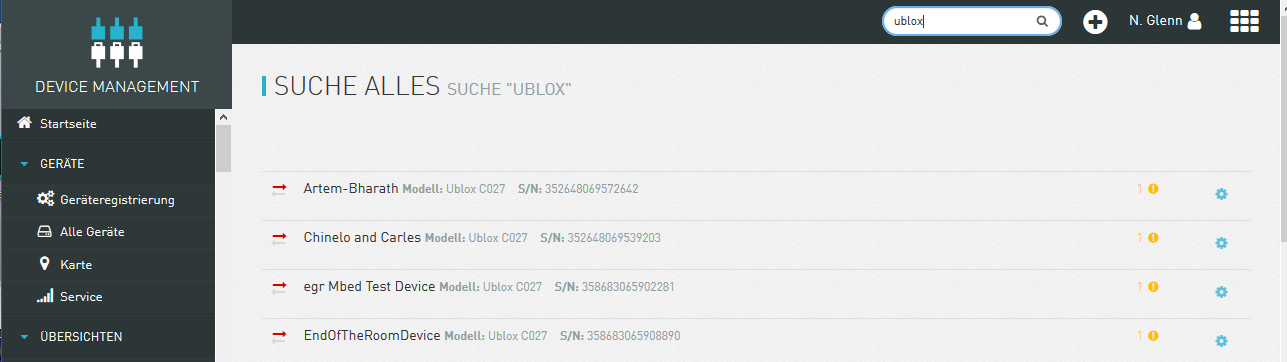
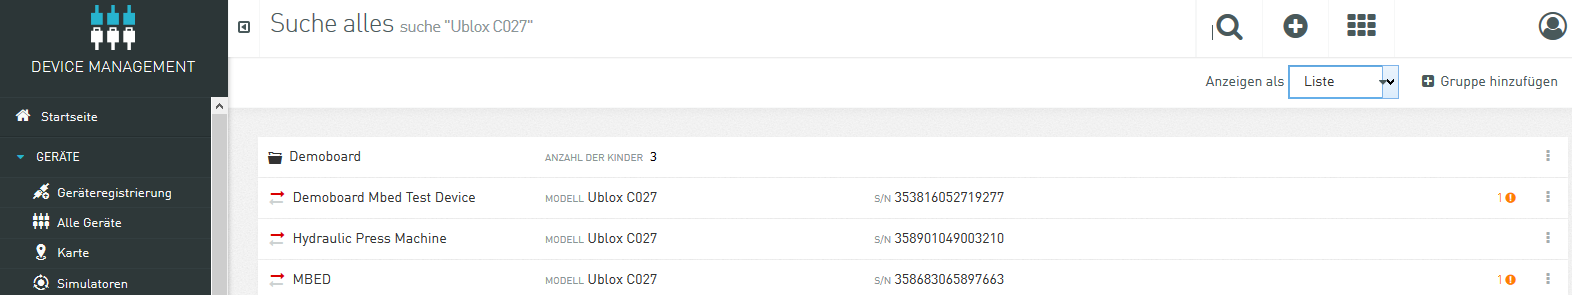
added 12 more up-to-date German screenshots

diff --git a/src/documents/guides/benutzerhandbuch/device-management-deutsch.html.md b/src/documents/guides/benutzerhandbuch/device-management-deutsch.html.md
@@ -19,7 +19,7 @@ Die Device-Management-Anwendung zeigt Ihnen Ihre angeschlossenen Geräte an und 
 * Verwalten von [Software und Firmware](#software-repo) auf Geräten
 * Verwalten der [Zugangsdaten](#credentials) von Geräten
 * [Simulation](#simulators) von Geräten
-* Nutzung von [Cloud Remote Access](#cloud_remote_access) für Fernzugriff auf Bedienkonsolen und andere Geräte
+* Nutzung von [Cloud Remote Access](#cloud_remote_access) für Fernzugriff auf Geräte 
 
 Die Device-Management-Anwendung sieht so aus:
 
@@ -85,15 +85,15 @@ In jedem Fall sehen Sie eine Liste der Geräte, wie im folgenden Beispiel gezeig
 
 Das Löschen eines Geräts bedeutet, das Gerät aus der Cumulocity-Datenbank zu entfernen, einschließlich aller damit generierten Daten. Alternativ zum Löschen eines Gerätes können Sie auch alle ausgeschalteten Geräte in eine Gruppe organisieren. Dadurch wird sichergestellt, dass alle alten Berichte korrekt bleiben. Um zu verhindern, dass Alarme für die ausgeschalteten Geräte eingehen, deaktivieren Sie die [Verbindungsüberwachung](#connection-monitoring). Beim Löschen eines Geräts werden die Daten seiner Kindgeräte nicht gelöscht.
 
-<img src="/guides/users-guide/devicelistde.png" alt="Device List" style="max-width: 100%">
+<img src="/guides/benutzerhandbuch/devicelistde.png" alt="Geräteliste" style="max-width: 100%">
 
 Falls eine Liste mehr als 1.000 Einträge enthält, werden nur die ersten 1.000 Einträge angezeigt. Klicken Sie unten auf den Link "Laden", um die nächsten 1.000 Einträge zu laden.
 
 ## <a name="searching-devices"></a>Geräte suchen
 
-Cumulocity enthält eine Volltextsuche nach Geräten. Durch Eingabe eines Suchbegriffs in das Textfeld "Suche ..." finden Sie alle Geräte, die diesen Begriff enthalten. Das folgende Bild zeigt ein Beispiel für die Suche nach Geräten, die den Begriff "Ublox C027" enthalten. Sie können nach beliebigen Texteigenschaften eines Geräts suchen. Präfixe werden ebenfalls unterstützt. Zum Beispiel würde eine Suche nach "Ublox" auch die Geräte mit "Ublox C027" zurückgeben. Suffixe werden derzeit nicht unterstützt. Zum Beispiel würde die Suche nach "C027" nicht die "Ublox C027" zurückgeben.
+Cumulocity enthält eine Volltextsuche nach Geräten. Durch Eingabe eines Suchbegriffs in das Suchfeld finden Sie alle Geräte, die diesen Begriff enthalten. Das folgende Bild zeigt ein Beispiel für die Suche nach Geräten, die den Begriff "Ublox C027" enthalten. Sie können nach beliebigen Texteigenschaften eines Geräts suchen. Präfixe werden ebenfalls unterstützt. Zum Beispiel würde eine Suche nach "Ublox" auch die Geräte mit "Ublox C027" zurückgeben. Suffixe werden derzeit nicht unterstützt. Zum Beispiel würde die Suche nach "C027" nicht die "Ublox C027" zurückgeben.
 
-<img src="/guides/benutzerhandbuch/suche.png" alt="Full Text Search" style="max-width: 100%">
+<img src="/guides/benutzerhandbuch/suche.png" alt="Volltextsuche" style="max-width: 100%">
 
 ## <a name="grouping-devices"></a>Geräte gruppieren
 
@@ -101,18 +101,18 @@ Geräte können beliebig nach Ihrem Anwendungsfall gruppiert werden. Ein Gerät 
 
 Cumulocity unterscheidet zwischen Top-Level-Gruppen und Untergruppen. Top-Level-Gruppen werden im Navigator auf oberster Ebene im Abschnitt "Gruppen" angezeigt. Sie sind Ihr Haupteingangspunkt. Untergruppen werden verwendet, um Gruppen weiter zu unterteilen.
 
-Um eine Top-Level-Gruppe zu erstellen, klicken Sie oben rechts neben dem Suchfeld auf die Plustaste und wählen Sie dann "Neue Gruppe hinzufügen". Ein kleines Fenster erscheint. Geben Sie einen Gruppennamen ein und suchen Sie nach den Geräten, die der Gruppe hinzugefügt werden sollen. Markieren Sie die Geräte und drücken Sie die Schaltfläche "Gruppe mit X Geräten erstellen", um den Vorgang abzuschließen. ( "X" ist die Anzahl der Geräte, die Sie markiert haben).
+Um eine Top-Level-Gruppe zu erstellen, klicken Sie oben rechts neben dem Suchfeld auf die Plustaste und wählen Sie dann "Neue Gruppe hinzufügen". Ein kleines Fenster erscheint. Geben Sie einen Gruppennamen ein und suchen Sie nach den Geräten, die der Gruppe hinzugefügt werden sollen. Markieren Sie die Geräte und drücken Sie die Schaltfläche "Gruppe mit X Geräten erstellen", um den Vorgang abzuschließen. ( "X" ist die Anzahl der Geräte, die Sie markiert haben.)
 > Eine Gruppe kann auch "0" Geräte enthalten.
 
-<img src="/guides/users-guide/gruppe2ger.png" alt="Adding top-level groups" style="max-width: 100%">
+<img src="/guides/benutzerhandbuch/gruppe2ger.png" alt="Gruppe hinzufügen" style="max-width: 100%">
 
 Sie können auch Geräte auf zwei andere Weisen hinzufügen: 
 
 * Wählen Sie ein Gerät aus und scrollen Sie nach unten zum Abschnitt "Gruppen" auf der Registerkarte "Info". Verwenden Sie das Dropdown-Menü mit dem Namen "Gruppen auswählen oder suchen", um eine Gruppe auszuwählen, in die das Gerät eingefügt werden soll.
-* Wählen Sie eine Gruppe aus. Gehen Sie auf die Registerkarte "Kindgeräte" auf der linken Seite und wählen Sie sie aus. Klicken Sie dann rechts oben in der Gruppenliste auf "Geräte zuordnen". Ein neues Menü öffnet sich. Suchen Sie nach den Geräten, die im Suchfeld hinzugefügt werden sollen. Markieren Sie dann die entsprechenden Geräte im Ergebnis und klicken Sie auf die Schaltfläche "X Geräte zugeordnet" am unteren Rand der Ergebnisliste.
+* Wählen Sie eine Gruppe aus. Gehen Sie auf die Registerkarte "Kindassets" auf der linken Seite und wählen Sie sie aus. Klicken Sie dann rechts oben in der Gruppenliste auf "Geräte zuordnen". Ein neues Menü öffnet sich. Suchen Sie nach den Geräten, die im Suchfeld hinzugefügt werden sollen. Markieren Sie dann die entsprechenden Geräte im Ergebnis und klicken Sie auf die Schaltfläche "X Geräte zugeordnet" am unteren Rand der Ergebnisliste.
 
 
-<img src="/guides/users-guide/subassetaddde.png" alt="Adding top-level groups" style="max-width: 100%">
+<img src="/guides/users-guide/subassetaddde.png" alt="Geräte zuordnen" style="max-width: 100%">
 
 
 Um eine Untergruppe zu erstellen, klicken Sie einfach auf "Gruppe hinzufügen", wenn Sie eine Gruppe ansehen.
@@ -123,24 +123,19 @@ Um eine Gruppe zu bearbeiten, klicken Sie auf den Namen der Gruppe und auf "Edit
 
 Dynamische Gruppen sind Gruppen basierend auf Filterkriterien. Sie haben einen vorübergehenden Charakter, da sich die Anzahl der Mitglieder ständig verändern kann. Diese Gruppen haben keine festen Mitgliederlisten, sondern stattdessen bestimmte Auswahlkriterien. Diese Art von Gruppe kann verwendet werden für Sammel-Upgrades eines Gerätyps auf eine neue Software- oder Firmware-Version.
 
-<img src="/guides/users-guide/smartfiltersde.png" alt="Adding top-level groups" style="max-width: 100%">
+<img src="/guides/benutzerhandbuch/smartfiltersde.png" alt="Dynamische Gruppen" style="max-width: 100%">
 
 Durch Auswahl von "Alle Geräte" können dynamische Gruppen angelegt werden. Um eine neue Gruppe zu erstellen, verwenden Sie einfach Filter, um Geräte auszuwählen. Klicken Sie nun auf "Dynamische Gruppe erstellen" und geben Sie der Gruppe einen Namen.
 
-<img src="/guides/users-guide/smartgroup1de.png" alt="Adding top-level groups" style="max-width: 100%">
+<img src="/guides/benutzerhandbuch/smartgroup1de.png" alt="Dynamische Gruppe erstellen" style="max-width: 100%">
 
-Wenn die Gruppe erstellt wird, wird sie als Gruppe der obersten Ebene im Abschnitt "Gruppen" angezeigt. Sie können Filterkriterien anpassen, indem Sie die Registerkarte "Kindgeräte" auswählen und die Filtereinstellungen ändern.
-
-<img src="/guides/users-guide/smartgroup2de.png" alt="Adding top-level groups" style="max-width: 100%">
+Wenn die Gruppe erstellt wird, wird sie als Gruppe der obersten Ebene im Abschnitt "Gruppen" angezeigt. Sie können Filterkriterien anpassen, indem Sie die Registerkarte "Kindassets" auswählen und die Filtereinstellungen ändern.
 
 Benutzer können auch dynamische Gruppen aus den Gruppen der obersten Ebene löschen. Dieser Vorgang ist irreversibel.
 
+<img src="/guides/benutzerhandbuch/smartgroupdelete1de.png" alt="Dynamische Gruppe entfernen" style="max-width: 100%">
 
 > Dynamische Gruppen können nicht in der Cockpit-Anwendung genutzt werden.
-
-<img src="/guides/users-guide/smartgroupdelete1de.png" alt="Adding top-level groups" style="max-width: 100%">
-
-<img src="/guides/users-guide/smartgroupdelete2de.png" alt="Adding top-level groups" style="max-width: 100%">
 
 ## <a name="device-details"></a>Anzeigen der Gerätedetails
 
@@ -638,7 +633,7 @@ Dies sind nicht etwa die Alarme, die durch die simulierten Geräte erzeugt werde
 
 ### Übersicht
 
-Cumulocity Cloud Remote Access implementiert Virtual Network Computing (VNC), um mit einer grafischen Benutzeroberfläche Fernzugriff auf Bedienkonsolen und andere Geräte zu erhalten. Die Anwender der Geräte können so über einen Webbrowser mit den Geräten arbeiten, als ob sie sich direkt vor ihnen befinden. 
+Cumulocity Cloud Remote Access implementiert Virtual Network Computing (VNC), um Fernzugriff auf Bedienkonsolen und andere Geräte mit einer grafischen Benutzeroberfläche zu erhalten. Die Anwender der Geräte können so über einen Webbrowser mit den Geräten arbeiten, als ob sie sich direkt vor ihnen befinden. 
 
 ![VNC](/guides/benutzerhandbuch/VNC1a-DE.png)
 
@@ -648,7 +643,7 @@ Cloud Remote Access funktioniert wie in der Abbildung unten dargestellt. Ausgehe
 
 Mit Cloud Remote Access können Sie
 
-- Statusvisualisierungen ansehen und Updates von ferngesteuerten Geräten sofort überwachen, so als befänden Sie sich direkt am Gerät
+- Statusvisualisierungen ansehen und Updates von ferngesteuerten Geräten jederzeit überwachen, so als befänden Sie sich direkt am Gerät
 - einfach eine Verbindung zu ferngesteuerten Geräten erstellen, da komplizierte VPN-Setups nicht nötig sind 
 
 ![VNC1b](/guides/benutzerhandbuch/VNC1b-DE.png)
@@ -662,42 +657,39 @@ Cloud Remote Access ist zugänglich über die Device-Management-Anwendung.
 **Voraussetzungen:**
 
 - Ein Gateway, das mit Cloud Remote Access kompatibel ist, ist mit Ihrem Cumulocity-Konto verbunden.  
-- Ein Gerät mit einem VNC-Server ist mit dem Gateway verbunden ist und kann vom Gateway erreicht werden. 
-- Cloud Remote Access wurde von Ihnen abonniert. Wenn Sie den "Remote access"???-Tab nicht sehen können, wenden Sie sich an sales@cumulocity.com.
+- Ein Gerät mit einem VNC-Server ist mit dem Gateway verbunden und kann vom Gateway erreicht werden. 
+- Cloud Remote Access wurde von Ihnen abonniert. Wenn Sie den "Fernzugriff"-Tab nicht sehen können, wenden Sie sich an sales@cumulocity.com.
 
 In Cumulocity können Sie die Gateways über “Alle Geräte” in der Device-Management-Anwendung finden. 
 
-![router device](/guides/users-guide/routerdevice.png)
+![Router](/guides/benutzerhandbuch/routerdevice-de.png)
 
-Wählen Sie das Gateway aus der Liste aus. Unten können Sie den “Fernzugriff"-Tab sehen, falls Sie Cloud Remote Access abonniert haben. Wenn sie auf den Tab klicken, erscheint die Liste. 
+Wählen Sie das Gateway aus der Liste aus. Unten sehen Sie den “Fernzugriff"-Tab. Wenn sie auf den Tab klicken, erscheint eine Liste mit Endpunkten dieses Geräts. Sie können ferngesteuerte Geräte konfigurieren, indem Sie auf “Endpunkt hinzufügen” klicken. 
 
-![Endpunkte](/guides/users-guide/endpoints.png)
+![Endpunkte](/guides/benutzerhandbuch/endpoints-de.png)
 
-Sie können ferngesteuerte Geräte konfigurieren, indem Sie auf “Endpunkt hinzufügen” klicken. 
+Der Endpunkt ist die IP-Adresse und der Port des VNC-Servers, der auf dem Gerät läuft. Die IP-Adresse und der Port müssen vom Gateway erreichbar sein.
 
-*Der "Endpunkt" ist die IP-Adresse und der Port des VNC-Servers, der auf dem Gerät läuft. Diese IP-Adresse und Port müssen vom Gateway erreichbar sein.* 
+Um einen Endpunkt zu konfigurieren, benötigen Sie die folgenden Berechtigungen: Sowohl "Remote access" (Fernzugriff) als auch "Kommandos" müssen auf “Admin” gesetzt sein. Um Daten zu lesen, reicht eine "Lese"-Berechtigung. Für weitere Informationen über die Gewährung von Berechtigungen siehe [Berechtigungen verwalten](/guides/benutzerhandbuch/administration-deutsch/#permissions).
 
+Ein Dialogfenster öffnet sich, in dem Sie den Endpunkt konfigurieren können. Geben Sie die IP-Adresse, den Port und das Passwort des VNC-Servers ein. Wenn der Endpunkt hinzugefügt ist, wird er in der Liste der Endpunkte angezeigt. 
 
-*Um einen Endpunkt zu konfigurieren, benötigen Sie die folgenden Berechtigungen: "Fernzugriff" muss auf “Ändern” und "Steuerung" muss auf “Ändern” gesetzt sein. Um Daten zu lesen, reicht eine "Lese"-Berechtigung. Für weitere Informationen über die Gewährung von Berechtigungen siehe [Administration](/guides/benutzerhandbuch/administration-deutsch/#users)*
+![Remote-Access-Endpunkt](/guides/benutzerhandbuch/remoteaccess-de.png)
 
-Ein Dialog wie in der Abbildung unten öffnet sich. Geben Sie die IP-Adresse, den Port und das Passwort des VNC-Servers ein. Wenn der Endpunkt hinzugefügt ist, wird er in der Liste angezeigt. 
+Um eine Verbindung zu konfigurierten Endpunkten zu schaffen, gehen Sie zum "Fernzugriff"-Tab und wählen Sie einen Endpunkt aus. Diese Endpunkte stellen die ferngesteuerten Geräte dar. Wenn Sie auf "Verbinden" klicken, startet die VNC-Verbindung. 
 
-![Remote-Access-Endpunkt](/guides/users-guide/remoteaccess.png)
+![Endpunkte verbinden](/guides/benutzerhandbuch/connectendp-de.png)
 
-Um eine Verbindung zu konfigurierten Endpunkten zu schaffen, gehen Sie zum "Remote Access"???-Tab und wählen Sie einen Endpunkt aus. Diese Endpunkte stellen die ferngesteuerten Geräte dar. Wenn Sie auf "Verbinden" klicken, startet die VNC-Verbindung. Dafür benötigen Sie zumindest "Lese"-Rechte für die Fernzugriff-Funktion und "Änderungs"-Rechte für die Gerätesteuerung. Weitere Informationen über Nutzer und Berechtigungen finden Sie unter [Administration](/guides/benutzerhandbuch/administration-deutsch/#users).
-
-![Endpunkte verbinden](/guides/users-guide/connectendp.png)
-
-Ein neuer Browser-Tab öffnet sich, und innerhalb von wenigen Mömenten sehen Sie die Frontseite bzw. die Bedienkonsole des verbundenen Gerätes. Die obere Leiste des Bildschirms zeigt "starting VNC handshake”??? an, wenn der Vorgang startet. 
+Ein neuer Browser-Tab öffnet sich, und innerhalb von wenigen Momenten sehen Sie den Bildschirm bzw. die Bedienkonsole des verbundenen Gerätes. Die obere Leiste des Bildschirms zeigt "Starting VNC handshake” an, wenn der Vorgang startet. 
 
 Über das kleine Zahnrad am Ende der Reihe öffnet sich ein Dialog, mit dem Sie Endpunkte bearbeiten oder entfernen können.
 
-![Endpunkte bearbeiten](/guides/users-guide/editendpoint.png)
+![Endpunkte bearbeiten](/guides/benutzerhandbuch/editendpoint-de.png)
 
-### Troubleshooting
+### Troubleshooting von Cloud Remote Access
 
-Vergewissern Sie sich, dass Sie die nötigen Berechtigungen für das Hinzufügen von Endpunkten haben. Sie benötigen "Ändern"-Rechte für Remote Access??? und Gerätesteuerung???. Ohne  "Änderungs"-Rechte in der Gerätesteuerung??? können Sie keine Geräte registrieren, und ohne "Änderungs"-Rechte beim Remote Access??? können Sie keine Endpunkte hinzufügen.
-Um eine Verbindung zu einer ferngesteuerten Bedienkonsole zu erstellen, reichen "Lese"-Rechte beim Remote Access???.
+Vergewissern Sie sich, dass Sie die nötigen Berechtigungen für das Hinzufügen von Endpunkten haben. Sie benötigen "Admin"-Rechte für den Fernzugriff ("Remote access") und die Kommandos. Ohne Admin-Rechte bei den Kommandos können Sie keine Geräte registrieren, und ohne Admin-Rechte beim Fernzugriff können Sie keine Endpunkte hinzufügen.
+Um eine Verbindung zu einer ferngesteuerten Bedienkonsole zu erstellen, reichen "Lese"-Rechte beim "Remote access".
 
 Die VNC-Verbindung zu einem VNC-Server über ein Gateway kann auch aufgrund von Netzwerkproblemen fehlschlagen. In diesem Fall wenden Sie sich an Ihren Netzwerkadministrator.
 
